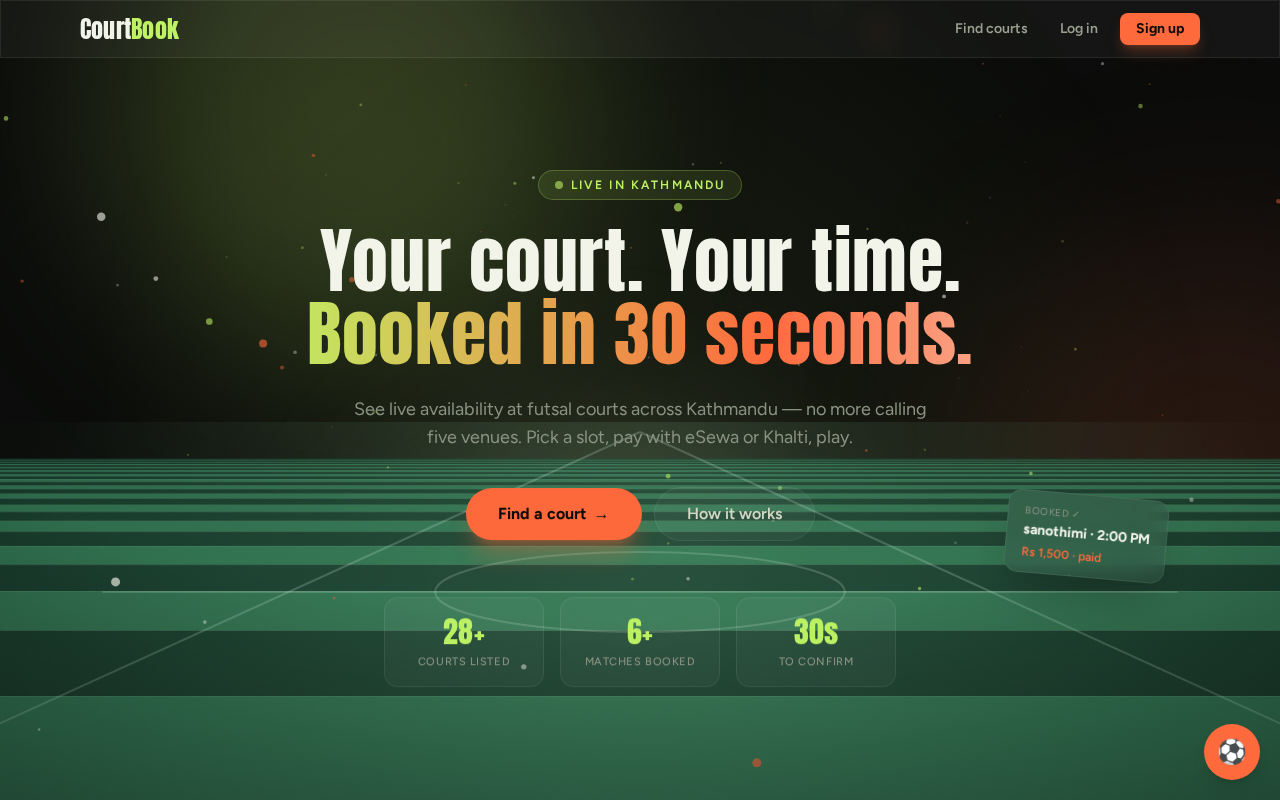
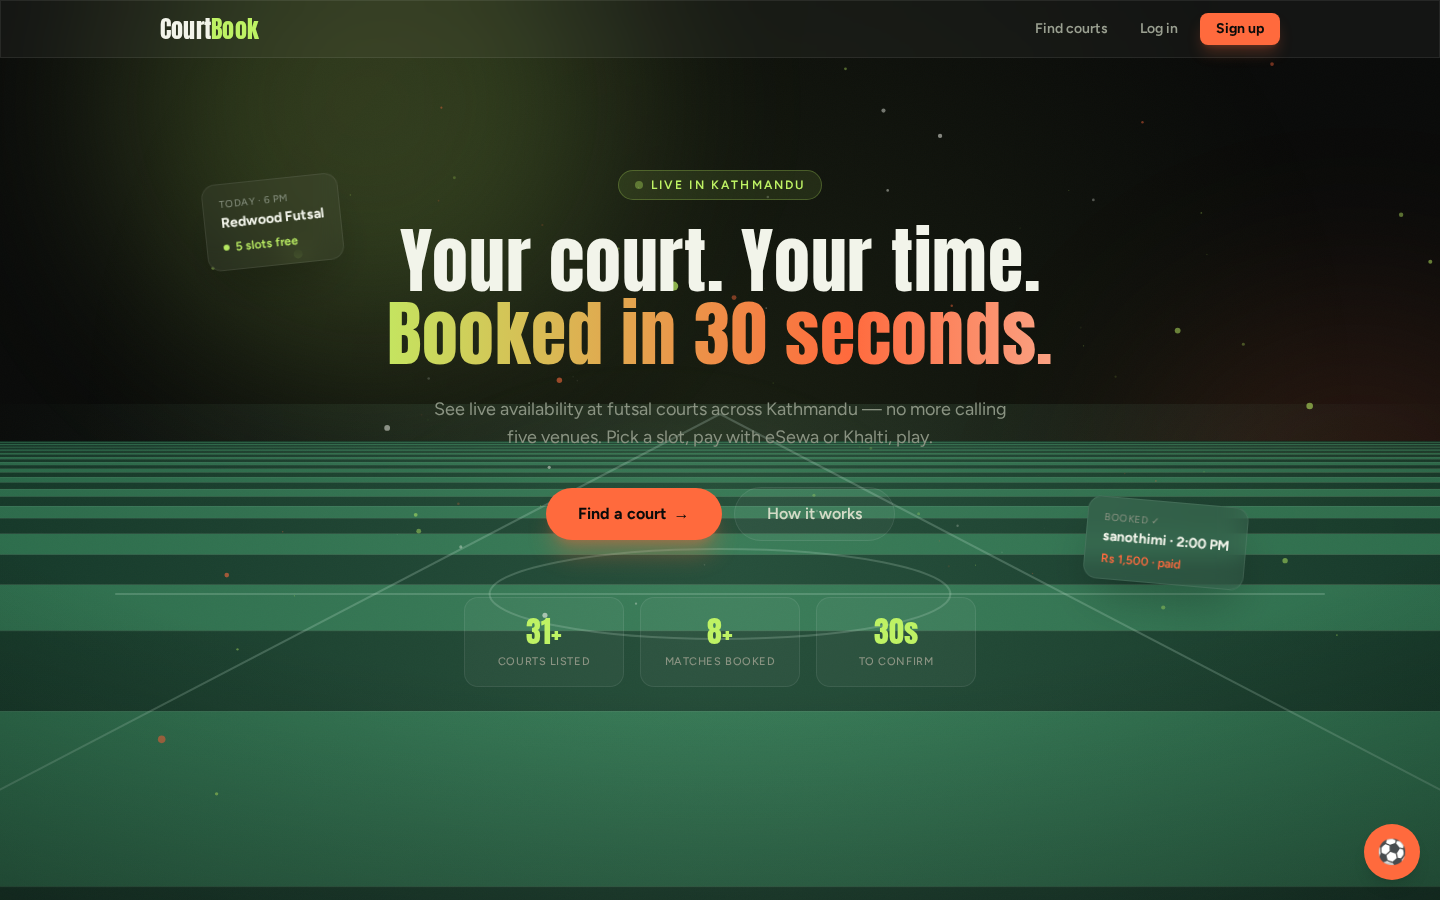
docs: refresh README and screenshots for redesigned UI

diff --git a/README.md b/README.md
@@ -1,81 +1,135 @@
 # CourtBook
 
-Futsal court booking platform for Kathmandu — players discover courts and book
-slots in real time; owners manage venues, schedules, and bookings.
-Full spec: [docs/blueprint.md](docs/blueprint.md) · build log: [docs/PROGRESS.md](docs/PROGRESS.md)
+**Real-time futsal court booking platform for Kathmandu.** Players discover
+courts and book slots with live availability; owners manage venues, schedules,
+pricing and walk-ins; admins approve owners and oversee the platform.
 
-## Stack
+> Solo-built full-stack TypeScript monorepo — spec-driven, test-first, MVP
+> feature-complete (M0–M8). Full design spec: [docs/blueprint.md](docs/blueprint.md) ·
+> build log: [docs/PROGRESS.md](docs/PROGRESS.md).
 
-React 18 + TypeScript + Vite (client) · Node 20 + Express + Mongoose (server) ·
-shared Zod schemas (`shared/`) · MongoDB Atlas · Render
+![Landing](docs/screenshots/01-landing-hero.png)
+
+---
+
+## What it does
+
+Three roles, one codebase:
+
+| Role | Capabilities |
+| --- | --- |
+| **Player** | Search courts by area/price/time, see live availability, book with a 10-min hold, pay (eSewa / Khalti / pay-at-venue), manage bookings, cancel with tiered refunds, export `.ics`. |
+| **Owner** | Self-signup → admin approval, venue/court onboarding with schedules & pricing, day/week calendar, walk-ins, time blocks, revenue reports with CSV export. |
+| **Admin** | Approve/reject owner requests, manage venues, platform totals, full audit log. Created only by another admin. |
+
+## Engineering worth a look
+
+These are the parts I'd walk an interviewer through:
+
+- **Atomic booking under concurrency** — no double-bookings, guaranteed by a
+  MongoDB **unique partial index** (`courtId + date + startMin` over active
+  statuses), not application-level locking. Expired holds fall out of the
+  partial filter, so slots reopen with zero extra code.
+  Verified by a **k6 race gate: 100 virtual users → exactly 1×`201`, 99×`409`**.
+  See [booking.model.ts](server/src/modules/bookings/booking.model.ts).
+- **Strict layering** — `route → controller → service → model`. Controllers
+  never touch models; every input is validated at the route boundary with
+  **shared Zod schemas** (the same `shared/` package types the client imports),
+  so client and server can never disagree on a contract.
+- **Derived availability** — slots aren't stored; they're computed from court
+  schedules minus active bookings and owner blocks, in **minutes-from-midnight
+  (Asia/Kathmandu, UTC+5:45)** to sidestep timezone/DST bugs.
+- **Secure auth** — rotating refresh sessions with **reuse detection**, lockout,
+  bcrypt, email verification, password reset via a notification outbox.
+- **Idempotent payments** — signature-verified eSewa/Khalti callbacks that
+  re-derive the amount server-side and dedupe on an idempotency key.
+- **One error contract** — `AppError(code, status, message)` → single global
+  middleware → consistent `{ error: { code, message } }` envelope, PII redacted
+  in logs.
+
+## Architecture
+
+```
+client/  React 18 + TS + Vite + Tailwind + TanStack Query + Zustand + RHF/Zod
+  │  (SPA, proxies /api)
+  ▼
+server/  Node 20 + Express 5 + Mongoose
+  route → controller → service → model     ← strict layers
+  helmet · cors · request-id · pino · rate-limit · zod-validate
+  jobs: expiry-sweeper (node-cron)          notifications: outbox
+  ▼
+shared/  Zod schemas + types + NPT time utils  (imported by BOTH sides)
+  ▼
+MongoDB Atlas   ·   Cloudinary (signed uploads)   ·   eSewa/Khalti (sandbox)
+```
+
+Server modules: `auth · venues · courts · bookings · payments · owner · admin ·
+reviews · home · assistant`. Each is a self-contained folder
+(`*.routes / *.controller / *.service / *.model / *.test`).
+
+## Quality
+
+- **Vitest + Supertest + mongodb-memory-server** — 99 tests, every module covered.
+- **Playwright** E2E and **k6** load/race tests.
+- **CI (GitHub Actions)**: lint → typecheck → test → build + `npm audit` + gitleaks on every PR.
+- ESLint 9 + Prettier, `no-explicit-any: error`, strict TS across the monorepo.
 
 ## Getting started
 
 ```bash
-npm install                 # installs all workspaces
-docker compose up -d        # local MongoDB (27017) + MailHog (SMTP 1025, UI 8025)
-cp .env.example server/.env # then adjust if needed
-npm run dev:server          # API on http://localhost:3000
-npm run dev:client          # SPA on http://localhost:5173 (proxies /api)
+npm install                 # all workspaces
+docker compose up -d        # local MongoDB + MailHog (mail UI :8025)
+cp .env.example server/.env # adjust if needed
+npm run dev:server          # API  → http://localhost:3000
+npm run dev:client          # SPA  → http://localhost:5173
+
+npm run seed                # demo data + first admin
+                            # [email redacted] / demo-password-1
 ```
 
 Health check: `GET http://localhost:3000/api/v1/health`
 
-## Account types
+## Scripts
 
-Three roles: **player**, **owner**, **admin**.
+| Script | Does |
+| --- | --- |
+| `npm run dev:server` / `dev:client` | Run API / SPA in watch mode |
+| `npm run lint` | ESLint + Prettier across the monorepo |
+| `npm run typecheck` | `tsc` in every workspace |
+| `npm test` | Vitest suites |
+| `npm run build` | Builds shared → server → client |
+| `npm run seed` / `seed:real` / `seed:media` | Demo data seeders |
+| `npm run e2e` | Playwright end-to-end |
 
-- **Player** — the default for anyone who signs up. Verify email → log in → book.
-- **Owner** — choose "Court owner" at signup. The account lands in an admin
-  approval queue (no email-verify step) and **cannot log in until an admin
-  approves it**; approval or rejection is emailed. Once approved, the owner runs
-  the venue-onboarding flow (`/owner`).
-- **Admin** — never self-registered. An existing admin creates new admins from
-  `/admin` (name/email/temp password, active immediately), reviews/approves
-  owner requests, **manages/removes futsals**, and sees **platform totals
-  (bookings + revenue)**. Every admin action is written to the audit log.
+## Screenshots
 
-Operators (owner & admin) don't get the player booking panel — `Find courts` /
-`My bookings` are hidden for them; they only see their own dashboard. Owners
-manage their venues/schedules, view revenue reports, and **block time periods
-("close for a slot")** from `/owner`.
+A tour across all three roles (times in Nepal Time, seeded demo data).
 
-Bootstrap the first admin with the seeder (`npm run seed` →
-`[email redacted]` / `demo-password-1`).
+**Player**
 
-## Scripts (root)
+| Landing | Find a court | Venue detail |
+| --- | --- | --- |
+| [![Landing](docs/screenshots/01-landing-hero.png)](docs/screenshots/02-landing-full.png) | [![Venues](docs/screenshots/03-venues.png)](docs/screenshots/03-venues.png) | [![Venue detail](docs/screenshots/04-venue-detail.png)](docs/screenshots/04-venue-detail.png) |
 
-| Script              | What it does                                        |
-| ------------------- | --------------------------------------------------- |
-| `npm run lint`      | ESLint + Prettier check across the monorepo         |
-| `npm run typecheck` | `tsc` in every workspace                            |
-| `npm test`          | Vitest suites (Supertest + mongodb-memory-server)   |
-| `npm run build`     | Builds shared → server → client                     |
+| Log in | Register | My bookings |
+| --- | --- | --- |
+| [![Login](docs/screenshots/05-login.png)](docs/screenshots/05-login.png) | [![Register](docs/screenshots/06-register.png)](docs/screenshots/06-register.png) | [![My bookings](docs/screenshots/07-player-bookings.png)](docs/screenshots/07-player-bookings.png) |
 
-CI (GitHub Actions) runs all four on every PR. Deploys via [render.yaml](render.yaml).
+**Owner**
+
+| Dashboard | Calendar | Reports | My venues |
+| --- | --- | --- | --- |
+| [![Owner dashboard](docs/screenshots/08-owner-dashboard.png)](docs/screenshots/08-owner-dashboard.png) | [![Owner calendar](docs/screenshots/09-owner-calendar.png)](docs/screenshots/09-owner-calendar.png) | [![Owner reports](docs/screenshots/10-owner-reports.png)](docs/screenshots/10-owner-reports.png) | [![Owner venues](docs/screenshots/11-owner-venues.png)](docs/screenshots/11-owner-venues.png) |
+
+**Admin**
+
+[![Admin](docs/screenshots/12-admin.png)](docs/screenshots/12-admin.png)
 
 ## Status
 
-- ✅ **M0 — Foundations**: monorepo, Express core (middleware chain, error
-  envelope, health endpoint), Docker, CI, Render blueprint
-- ✅ **M1 — Auth**: register/verify/login, rotating refresh sessions with reuse
-  detection, lockout, password reset, notification outbox (emails via MailHog in dev)
-- ✅ **M2 — Venues & courts**: owner CRUD with schedules/pricing, draft→review→
-  approved lifecycle, admin approval queue with audit log, public search with
-  filters + cursor pagination, Cloudinary signed uploads
-- ✅ **M3 — Booking engine**: derived availability, atomic slot creation (unique
-  partial index — zero double bookings under concurrent load), 10-min holds +
-  expiry sweeper, cancellation with refund tiers, walk-ins, owner blocks
-- ✅ **M4 — Payments**: eSewa + Khalti sandbox adapters, signature-verified
-  idempotent callbacks with amount re-derivation, pay-at-venue, checkout polling
-- ✅ **M5 — Player frontend**: Tailwind design system from the mockups,
-  availability grid, booking flow with checkout countdown + all payment paths,
-  my-bookings with cancel/.ics, full auth UI
-- ✅ **M6 — Owner dashboard**: today view with walk-in + block actions, week
-  calendar with occupants, reports with CSV export, lean venue management
-- ✅ **M7 — AI assistant**: chat endpoint with 3 tools + §7.7 guardrails and
-  floating widget (built but disabled — set LLM_API_KEY to enable)
-- ✅ **M8 — Hardening & launch**: security checklist, CI audit+gitleaks, demo
-  seeder, runbooks, Playwright E2E, and the k6 §11.5 race gate (100 VU → 1×201/99×409)
+MVP feature-complete (**M0–M8**): foundations, auth, venues & courts, booking
+engine, payments, player frontend, owner dashboard, AI assistant (built,
+gated behind `LLM_API_KEY`), hardening & launch. Remaining: production deploy
+(needs a hosting account) and the Phase 13 roadmap.
 
-**MVP feature-complete (M0–M8).** Remaining: deploy (needs a hosting account) + Phase 13 roadmap.
+Deploy config: [render.yaml](render.yaml).